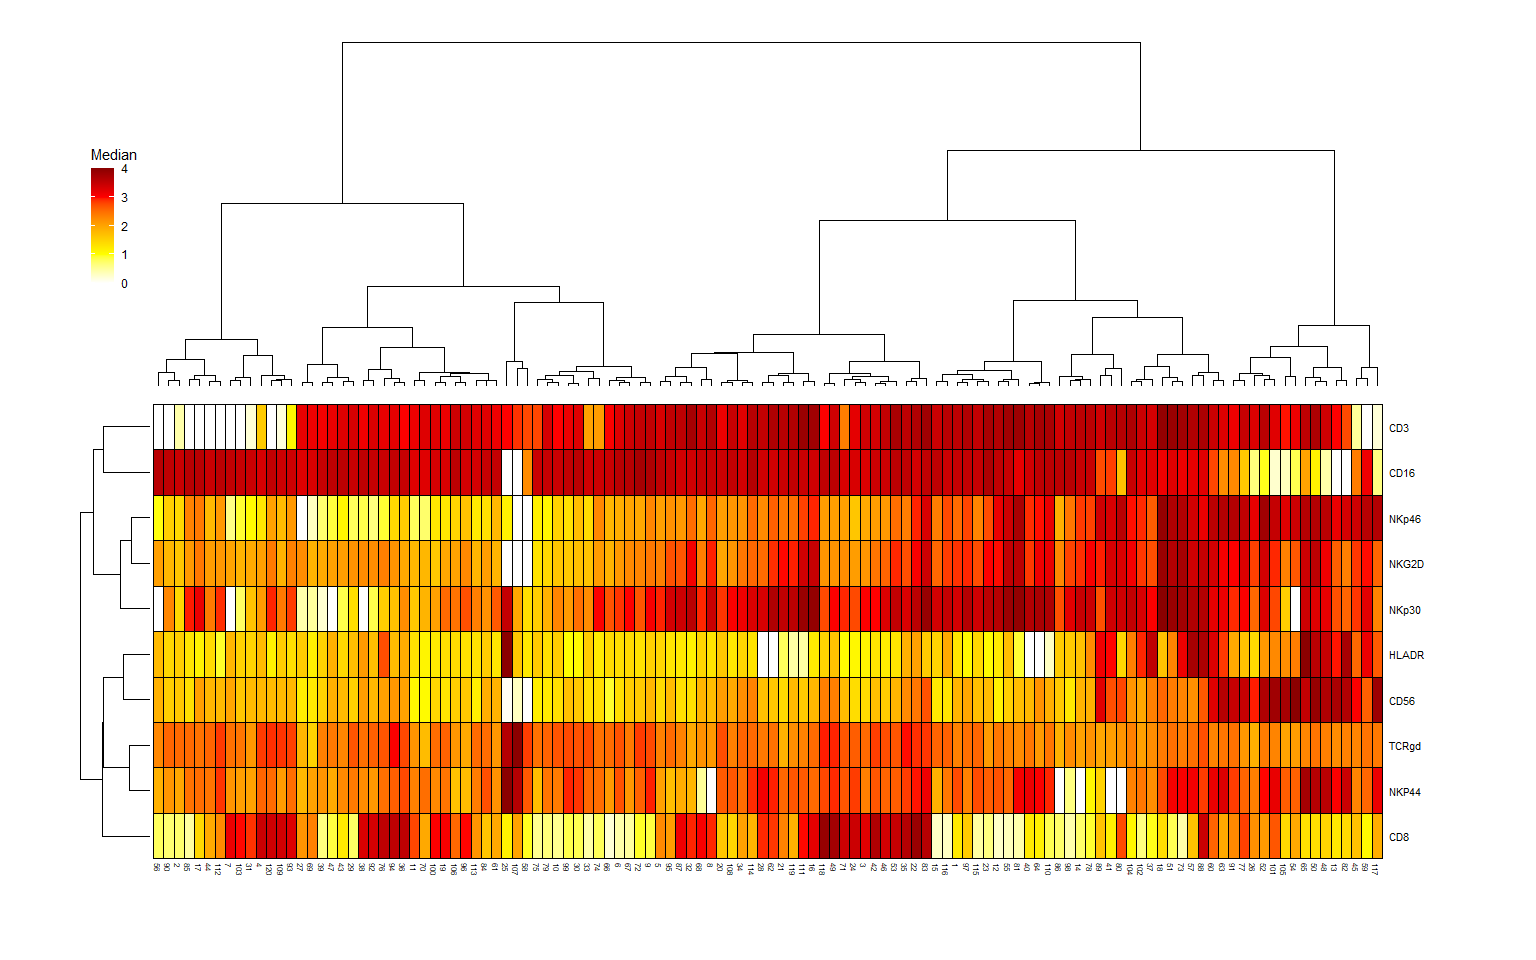
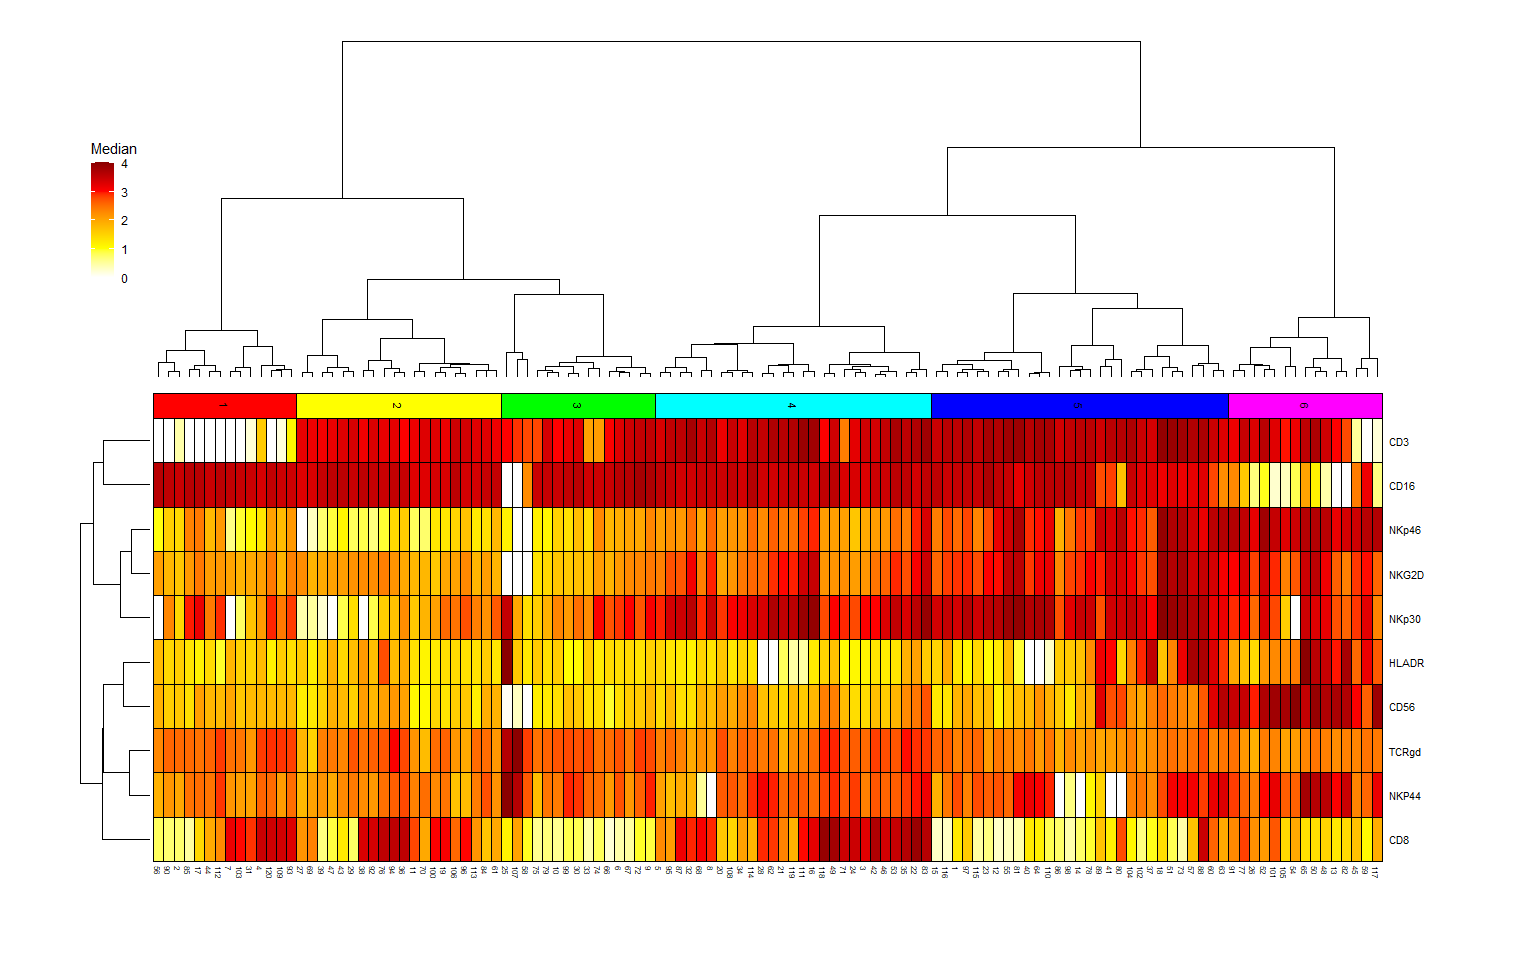
MAJ 08/12/2023

diff --git a/README.md b/README.md
@@ -118,34 +118,34 @@ files <- list.files(NK_files,
 print(files)
 ```
 
-    ##  [1] "C:/Users/GWMA/Documents/Transreg/03_Kaluza_exports_renamed/Panel_03_NK/V1_10105LA.fcs"
-    ##  [2] "C:/Users/GWMA/Documents/Transreg/03_Kaluza_exports_renamed/Panel_03_NK/V1_10209HE.fcs"
-    ##  [3] "C:/Users/GWMA/Documents/Transreg/03_Kaluza_exports_renamed/Panel_03_NK/V1_10306CG.fcs"
-    ##  [4] "C:/Users/GWMA/Documents/Transreg/03_Kaluza_exports_renamed/Panel_03_NK/V1_10503DC.fcs"
-    ##  [5] "C:/Users/GWMA/Documents/Transreg/03_Kaluza_exports_renamed/Panel_03_NK/V1_11204CD.fcs"
-    ##  [6] "C:/Users/GWMA/Documents/Transreg/03_Kaluza_exports_renamed/Panel_03_NK/V1_20208AA.fcs"
-    ##  [7] "C:/Users/GWMA/Documents/Transreg/03_Kaluza_exports_renamed/Panel_03_NK/V1_20210RF.fcs"
-    ##  [8] "C:/Users/GWMA/Documents/Transreg/03_Kaluza_exports_renamed/Panel_03_NK/V6_10105LA.fcs"
-    ##  [9] "C:/Users/GWMA/Documents/Transreg/03_Kaluza_exports_renamed/Panel_03_NK/V6_10209HE.fcs"
-    ## [10] "C:/Users/GWMA/Documents/Transreg/03_Kaluza_exports_renamed/Panel_03_NK/V6_10306CG.fcs"
-    ## [11] "C:/Users/GWMA/Documents/Transreg/03_Kaluza_exports_renamed/Panel_03_NK/V6_10503DC.fcs"
-    ## [12] "C:/Users/GWMA/Documents/Transreg/03_Kaluza_exports_renamed/Panel_03_NK/V6_11204CD.fcs"
-    ## [13] "C:/Users/GWMA/Documents/Transreg/03_Kaluza_exports_renamed/Panel_03_NK/V6_20208AA.fcs"
-    ## [14] "C:/Users/GWMA/Documents/Transreg/03_Kaluza_exports_renamed/Panel_03_NK/V6_20210RF.fcs"
-    ## [15] "C:/Users/GWMA/Documents/Transreg/03_Kaluza_exports_renamed/Panel_03_NK/V7_10105LA.fcs"
-    ## [16] "C:/Users/GWMA/Documents/Transreg/03_Kaluza_exports_renamed/Panel_03_NK/V7_10209HE.fcs"
-    ## [17] "C:/Users/GWMA/Documents/Transreg/03_Kaluza_exports_renamed/Panel_03_NK/V7_10306CG.fcs"
-    ## [18] "C:/Users/GWMA/Documents/Transreg/03_Kaluza_exports_renamed/Panel_03_NK/V7_10503DC.fcs"
-    ## [19] "C:/Users/GWMA/Documents/Transreg/03_Kaluza_exports_renamed/Panel_03_NK/V7_11204CD.fcs"
-    ## [20] "C:/Users/GWMA/Documents/Transreg/03_Kaluza_exports_renamed/Panel_03_NK/V7_20208AA.fcs"
-    ## [21] "C:/Users/GWMA/Documents/Transreg/03_Kaluza_exports_renamed/Panel_03_NK/V7_20210RF.fcs"
-    ## [22] "C:/Users/GWMA/Documents/Transreg/03_Kaluza_exports_renamed/Panel_03_NK/V8_10105LA.fcs"
-    ## [23] "C:/Users/GWMA/Documents/Transreg/03_Kaluza_exports_renamed/Panel_03_NK/V8_10209HE.fcs"
-    ## [24] "C:/Users/GWMA/Documents/Transreg/03_Kaluza_exports_renamed/Panel_03_NK/V8_10306CG.fcs"
-    ## [25] "C:/Users/GWMA/Documents/Transreg/03_Kaluza_exports_renamed/Panel_03_NK/V8_10503DC.fcs"
-    ## [26] "C:/Users/GWMA/Documents/Transreg/03_Kaluza_exports_renamed/Panel_03_NK/V8_11204CD.fcs"
-    ## [27] "C:/Users/GWMA/Documents/Transreg/03_Kaluza_exports_renamed/Panel_03_NK/V8_20208AA.fcs"
-    ## [28] "C:/Users/GWMA/Documents/Transreg/03_Kaluza_exports_renamed/Panel_03_NK/V8_20210RF.fcs"
+    ##  [1] "C:/Users/Gwenou/Documents/05_I3/02_CellVizR_package/Transreg/03_Kaluza_exports_renamed/Panel_03_NK/V1_10105LA.fcs"
+    ##  [2] "C:/Users/Gwenou/Documents/05_I3/02_CellVizR_package/Transreg/03_Kaluza_exports_renamed/Panel_03_NK/V1_10209HE.fcs"
+    ##  [3] "C:/Users/Gwenou/Documents/05_I3/02_CellVizR_package/Transreg/03_Kaluza_exports_renamed/Panel_03_NK/V1_10306CG.fcs"
+    ##  [4] "C:/Users/Gwenou/Documents/05_I3/02_CellVizR_package/Transreg/03_Kaluza_exports_renamed/Panel_03_NK/V1_10503DC.fcs"
+    ##  [5] "C:/Users/Gwenou/Documents/05_I3/02_CellVizR_package/Transreg/03_Kaluza_exports_renamed/Panel_03_NK/V1_11204CD.fcs"
+    ##  [6] "C:/Users/Gwenou/Documents/05_I3/02_CellVizR_package/Transreg/03_Kaluza_exports_renamed/Panel_03_NK/V1_20208AA.fcs"
+    ##  [7] "C:/Users/Gwenou/Documents/05_I3/02_CellVizR_package/Transreg/03_Kaluza_exports_renamed/Panel_03_NK/V1_20210RF.fcs"
+    ##  [8] "C:/Users/Gwenou/Documents/05_I3/02_CellVizR_package/Transreg/03_Kaluza_exports_renamed/Panel_03_NK/V6_10105LA.fcs"
+    ##  [9] "C:/Users/Gwenou/Documents/05_I3/02_CellVizR_package/Transreg/03_Kaluza_exports_renamed/Panel_03_NK/V6_10209HE.fcs"
+    ## [10] "C:/Users/Gwenou/Documents/05_I3/02_CellVizR_package/Transreg/03_Kaluza_exports_renamed/Panel_03_NK/V6_10306CG.fcs"
+    ## [11] "C:/Users/Gwenou/Documents/05_I3/02_CellVizR_package/Transreg/03_Kaluza_exports_renamed/Panel_03_NK/V6_10503DC.fcs"
+    ## [12] "C:/Users/Gwenou/Documents/05_I3/02_CellVizR_package/Transreg/03_Kaluza_exports_renamed/Panel_03_NK/V6_11204CD.fcs"
+    ## [13] "C:/Users/Gwenou/Documents/05_I3/02_CellVizR_package/Transreg/03_Kaluza_exports_renamed/Panel_03_NK/V6_20208AA.fcs"
+    ## [14] "C:/Users/Gwenou/Documents/05_I3/02_CellVizR_package/Transreg/03_Kaluza_exports_renamed/Panel_03_NK/V6_20210RF.fcs"
+    ## [15] "C:/Users/Gwenou/Documents/05_I3/02_CellVizR_package/Transreg/03_Kaluza_exports_renamed/Panel_03_NK/V7_10105LA.fcs"
+    ## [16] "C:/Users/Gwenou/Documents/05_I3/02_CellVizR_package/Transreg/03_Kaluza_exports_renamed/Panel_03_NK/V7_10209HE.fcs"
+    ## [17] "C:/Users/Gwenou/Documents/05_I3/02_CellVizR_package/Transreg/03_Kaluza_exports_renamed/Panel_03_NK/V7_10306CG.fcs"
+    ## [18] "C:/Users/Gwenou/Documents/05_I3/02_CellVizR_package/Transreg/03_Kaluza_exports_renamed/Panel_03_NK/V7_10503DC.fcs"
+    ## [19] "C:/Users/Gwenou/Documents/05_I3/02_CellVizR_package/Transreg/03_Kaluza_exports_renamed/Panel_03_NK/V7_11204CD.fcs"
+    ## [20] "C:/Users/Gwenou/Documents/05_I3/02_CellVizR_package/Transreg/03_Kaluza_exports_renamed/Panel_03_NK/V7_20208AA.fcs"
+    ## [21] "C:/Users/Gwenou/Documents/05_I3/02_CellVizR_package/Transreg/03_Kaluza_exports_renamed/Panel_03_NK/V7_20210RF.fcs"
+    ## [22] "C:/Users/Gwenou/Documents/05_I3/02_CellVizR_package/Transreg/03_Kaluza_exports_renamed/Panel_03_NK/V8_10105LA.fcs"
+    ## [23] "C:/Users/Gwenou/Documents/05_I3/02_CellVizR_package/Transreg/03_Kaluza_exports_renamed/Panel_03_NK/V8_10209HE.fcs"
+    ## [24] "C:/Users/Gwenou/Documents/05_I3/02_CellVizR_package/Transreg/03_Kaluza_exports_renamed/Panel_03_NK/V8_10306CG.fcs"
+    ## [25] "C:/Users/Gwenou/Documents/05_I3/02_CellVizR_package/Transreg/03_Kaluza_exports_renamed/Panel_03_NK/V8_10503DC.fcs"
+    ## [26] "C:/Users/Gwenou/Documents/05_I3/02_CellVizR_package/Transreg/03_Kaluza_exports_renamed/Panel_03_NK/V8_11204CD.fcs"
+    ## [27] "C:/Users/Gwenou/Documents/05_I3/02_CellVizR_package/Transreg/03_Kaluza_exports_renamed/Panel_03_NK/V8_20208AA.fcs"
+    ## [28] "C:/Users/Gwenou/Documents/05_I3/02_CellVizR_package/Transreg/03_Kaluza_exports_renamed/Panel_03_NK/V8_20210RF.fcs"
 
 ``` r
 # import the FCS files into a Celldata object 
@@ -226,6 +226,9 @@ plotCellCounts(DataCell,
                sort = TRUE)
 ```
 
+    ## Warning: `aes_string()` was deprecated in ggplot2 3.0.0.
+    ## i Please use tidy evaluation ideoms with `aes()`
+
 ![](README_files/figure-markdown_github/plotCellCounts-1.png)
 
 ``` r
@@ -271,28 +274,28 @@ DataCell <- generateManifold(DataCell,
 
     ## 
 
-    ## 11:32:18 UMAP embedding parameters a = 1.896 b = 0.8006
+    ## 16:57:45 UMAP embedding parameters a = 1.896 b = 0.8006
 
-    ## 11:32:18 Converting dataframe to numerical matrix
+    ## 16:57:45 Converting dataframe to numerical matrix
 
-    ## 11:32:18 Read 26722 rows and found 10 numeric columns
+    ## 16:57:45 Read 26722 rows and found 10 numeric columns
 
-    ## 11:32:18 Using Annoy for neighbor search, n_neighbors = 15
+    ## 16:57:45 Using Annoy for neighbor search, n_neighbors = 15
 
-    ## 11:32:18 Building Annoy index with metric = euclidean, n_trees = 50
+    ## 16:57:46 Building Annoy index with metric = euclidean, n_trees = 50
 
     ## 0%   10   20   30   40   50   60   70   80   90   100%
 
     ## [----|----|----|----|----|----|----|----|----|----|
 
     ## **************************************************|
-    ## 11:32:20 Writing NN index file to temp file C:\Users\GWMA\AppData\Local\Temp\RtmpGUgfQO\file2f5469db651c
-    ## 11:32:20 Searching Annoy index using 40 threads, search_k = 1500
-    ## 11:32:21 Annoy recall = 100%
-    ## 11:32:21 Commencing smooth kNN distance calibration using 40 threads with target n_neighbors = 15
-    ## 11:32:22 Initializing from normalized Laplacian + noise (using irlba)
-    ## 11:32:23 Commencing optimization for 200 epochs, with 539456 positive edges using 1 thread
-    ## 11:32:41 Optimization finished
+    ## 16:57:49 Writing NN index file to temp file C:\Users\Gwenou\AppData\Local\Temp\RtmpAHxLt7\file411c647a510c
+    ## 16:57:49 Searching Annoy index using 40 threads, search_k = 1500
+    ## 16:57:51 Annoy recall = 100%
+    ## 16:57:51 Commencing smooth kNN distance calibration using 40 threads with target n_neighbors = 15
+    ## 16:57:52 Initializing from normalized Laplacian + noise (using irlba)
+    ## 16:57:53 Commencing optimization for 200 epochs, with 539456 positive edges using 1 thread
+    ## 16:58:18 Optimization finished
 
 The main arguments of the `generateManifold()` function are:
 
@@ -342,6 +345,9 @@ plotClustersCounts(DataCell,
                    sort = TRUE)
 ```
 
+    ## Warning: Using the `size` aesthetic in this geom was deprecated in ggplot2 3.4.0.
+    ## i Please use `linewidth` in the `default_aes` field and elsewhere instead.
+
 ![](README_files/figure-markdown_github/plotClustersCounts-1.png)
 
 ``` r
@@ -371,6 +377,9 @@ plotManifold(DataCell,
              markers = "density",
              samples = NULL)
 ```
+
+    ## Warning: Using `size` aesthetic for lines was deprecated in ggplot2 3.4.0.
+    ## i Please use `linewidth` instead.
 
 ![](README_files/figure-markdown_github/PlotManifold-1.png)
 
@@ -403,8 +412,8 @@ shown as below:
 
 ``` r
 # Display manifold overlay by 'cluster' 
-plotManifold(DataCell, 
-             markers = "clusters")
+plotManifold(DataCell, markers = "clusters") + 
+  ggplot2::guides(color = "none")
 ```
 
 ![](README_files/figure-markdown_github/PlotManifold4-1.png)
@@ -425,7 +434,8 @@ This function is used as below:
 
 ``` r
 # Heatmap of expression markers 
-hm.exp <- plotHmExpressions(DataCell)
+hm.exp <- plotHmExpressions(DataCell, 
+                            N.metaclusters = 6)
 gridExtra::grid.arrange(hm.exp)
 ```
 
@@ -443,7 +453,8 @@ following example:
 # Heatmap of expression markers 
 hm.exp <- plotHmExpressions(DataCell, 
                             markers = c("NKP44", "NKp30", "NKp46", "NKG2D"), 
-                            clusters = c(1:50))
+                            clusters = c(1:50),
+                            N.metaclusters = 6)
 gridExtra::grid.arrange(hm.exp)
 ```
 
@@ -464,6 +475,9 @@ curve or red if it is non-unimodal.
 plotMarkerDensity(DataCell, 
                   clusters = "58")
 ```
+
+    ## Warning: `stat(x)` was deprecated in ggplot2 3.4.0.
+    ## i Please use `after_stat(x)` instead.
 
     ## Picking joint bandwidth of 0.0252
 
@@ -498,8 +512,9 @@ Y-axis represents the marker expressions.
 
 ``` r
 # Coordinates plot for specific cluster 
-plotCoordinates(DataCell, 
-                clusters = "58")
+plotCoordinatesClusters(DataCell, 
+                        condition.samples = c("timepoint"),
+                        clusters = "10")
 ```
 
     ## Using  as id variables
@@ -533,23 +548,30 @@ This function is used as follows:
 
 ``` r
 # Compute statistics 
-baseline = "V1"
-list.conditions <- c("V6", "V7", "V8")
+DataCell@statistic <- data.frame()
 
-for (condition in list.conditions) {
+V1 = selectSamples(DataCell, 
+                   timepoint = "V1")
+ 
+list.conditions <- list("V6" = selectSamples(DataCell, timepoint = "V6"),
+                        "V7" = selectSamples(DataCell, timepoint = "V7"),
+                        "V8" = selectSamples(DataCell, timepoint = "V8"))
+
+for (condition in 1:length(list.conditions)) {
   DataCell <- computeStatistics(DataCell, 
-                                condition = paste0(condition), 
-                                ref.condition = paste0(baseline),
+                                condition = list.conditions[[condition]], 
+                                ref.condition = V1,
+                                comparison = paste0(names(list.conditions)[condition], " vs. V1"), 
                                 test.statistics = "t.test",
                                 paired = FALSE)
 }
 ```
 
-    ## Computing of the t.test for: V6 vs. V1
+    ## Computing of the t.test for: V6_10105LA,V6_10209HE,V6_10306CG,V6_10503DC,V6_11204CD,V6_20208AA,V6_20210RF vs. V1_10105LA,V1_10209HE,V1_10306CG,V1_10503DC,V1_11204CD,V1_20208AA,V1_20210RF
 
-    ## Computing of the t.test for: V7 vs. V1
+    ## Computing of the t.test for: V7_10105LA,V7_10209HE,V7_10306CG,V7_10503DC,V7_11204CD,V7_20208AA,V7_20210RF vs. V1_10105LA,V1_10209HE,V1_10306CG,V1_10503DC,V1_11204CD,V1_20208AA,V1_20210RF
 
-    ## Computing of the t.test for: V8 vs. V1
+    ## Computing of the t.test for: V8_10105LA,V8_10209HE,V8_10306CG,V8_10503DC,V8_11204CD,V8_20208AA,V8_20210RF vs. V1_10105LA,V1_10209HE,V1_10306CG,V1_10503DC,V1_11204CD,V1_20208AA,V1_20210RF
 
 ## 3.2 Visualisation of statistical analysis
 
@@ -659,6 +681,7 @@ Here is an example for generating such representation:
 plotBoxplot(DataCell, 
             clusters = clusters,
             samples = NULL,
+            value.y = "percentage",
             observation = "timepoint", 
             test.statistics = "t.test")
 ```
@@ -969,6 +992,7 @@ plotBoxplot(DataCell,
             clusters = "47",
             samples = NULL,
             observation = "timepoint", 
+            value.y = "percentage",
             test.statistics = "t.test") +
   ggplot2::labs(title = "Boxplot representation for timepoint")
 ```
@@ -1009,18 +1033,19 @@ plotCombineHM(hm.exp, hm.stats)
 
 ![](README_files/figure-markdown_github/PlotcombineHM-1.png)
 
-    ## TableGrob (21 x 18) "arrange": 10 grobs
+    ## TableGrob (22 x 18) "arrange": 11 grobs
     ##     z         cells    name              grob
-    ## 1   1 ( 4-11, 2-17) arrange    gtable[layout]
+    ## 1   1 ( 5-12, 2-17) arrange    gtable[layout]
     ## 2   2 ( 1- 3, 2-17) arrange    gtable[layout]
-    ## 3   3 ( 4-11, 1- 1) arrange    gtable[layout]
-    ## 4   4 (12-12, 2-17) arrange    gtable[layout]
-    ## 5   5 ( 4-11,18-18) arrange    gtable[layout]
-    ## 6   6 ( 1- 3, 1- 1) arrange gtable[guide-box]
-    ## 7   7 (13-19, 2-17) arrange    gtable[layout]
-    ## 8   8 (13-19,18-18) arrange    gtable[layout]
-    ## 9   9 (20-20, 2-17) arrange    gtable[layout]
-    ## 10 10 (21-21, 3-16) arrange gtable[guide-box]
+    ## 3   3 ( 5-12, 1- 1) arrange    gtable[layout]
+    ## 4   4 (13-13, 2-17) arrange    gtable[layout]
+    ## 5   5 ( 5-12,18-18) arrange    gtable[layout]
+    ## 6   6 ( 4- 4, 2-17) arrange    gtable[layout]
+    ## 7   7 ( 1- 3, 1- 1) arrange gtable[guide-box]
+    ## 8   8 (14-20, 2-17) arrange    gtable[layout]
+    ## 9   9 (14-20,18-18) arrange    gtable[layout]
+    ## 10 10 (21-21, 2-17) arrange    gtable[layout]
+    ## 11 11 (22-22, 3-16) arrange gtable[guide-box]
 
 ## 5.3 Interactive graphics
 
@@ -1107,8 +1132,5 @@ export(DataCell,
        clusters = NULL,
        samples = NULL)
 ```
-
-    ## Warning in readFCSdata(con, offsets, txt, transformation, which.lines, scale, : Some data values of 'CD56.BV421' channel exceed its $PnR value 475421.659057617 and will be truncated!
-    ##  To avoid truncation, either fix $PnR before generating FCS or set 'truncate_max_range = FALSE'
 
     ## [1] "Analyses_NK_K100.fcs"
